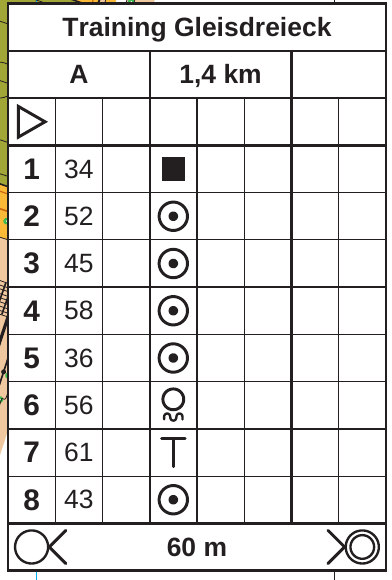
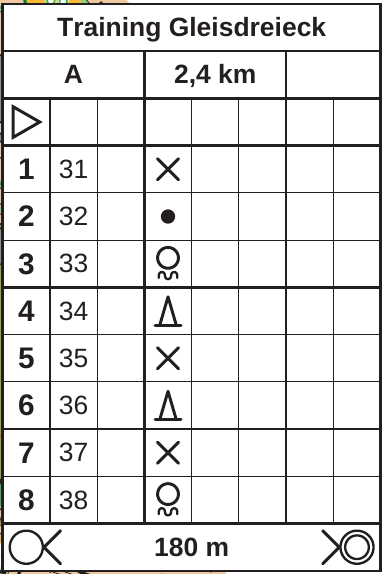
docs(manual): redo the course figures with the freemapper-courseplan courses
The course sheet, description box, course detail, window, corridor and
editor figures now show two courses made with freemapper-courseplan 0.14.1
on the Gleisdreieck map. The window figure uses default windows that keep
their gap. The corridor of course B is made in two pieces, because two of
its legs cross. Captions, alt text and the image README follow.

Claude-Session: https://claude.ai/code/session_01BW25YpQzNgpyx83gc57xBg

Changed region(s): [[0.0, 0.0, 1.0, 1.0], [0.7188, 0.7997, 0.75, 0.8589]]

diff --git a/docs/manual/de.md b/docs/manual/de.md
@@ -755,9 +755,9 @@ eine schlechte Datei nie ein Blatt erzeugt. Der Exit-Code ist 1.
 
 ### Bahnblätter und Bahnaufdruck
 
-![A4-Blatt mit der Karte, der violetten Bahn A mit acht Posten und Nummern, dem Titelblock oben links und dem Beschreibungskasten oben rechts](img/course-sheet.jpg)
+![A4-Blatt hochkant mit der Karte, der violetten Bahn A mit acht Posten und Nummern, dem Titelblock oben links und dem Beschreibungskasten oben rechts](img/course-sheet.jpg)
 
-*Das Blatt der Bahn „A“ in 1:4000 mit Bahnaufdruck, Nummern, Titelblock und Beschreibungskasten (die Bahn ist für dieses Handbuch erfunden). Karte: Remo Madella, MOO Challenge Berlin 2025.*
+*Das Blatt der Bahn „A“ (2,4 km, acht Posten) in 1:4000 mit Bahnaufdruck, Nummern, Titelblock und Beschreibungskasten. Die Bahn ist mit freemapper-courseplan 0.14.1 gemacht. Karte: Remo Madella, MOO Challenge Berlin 2025.*
 
 Mit einer Bahndatei schreibt `export` ein PDF je Bahn statt je Layout (siehe „Export“ unten). Ein Bahnblatt ist
 das Layout, dem die Bahn zugeordnet ist, mit diesen Änderungen:
@@ -814,9 +814,9 @@ Pflichtstrecken und Kartenwechsel mit ihrer Länge und das Ziel. Der zweite Tite
 bekommt eine eigene Zeile, ein Kartenwechsel („map flip“) die Zeile 15.6. Eine Bahn mit Wertung (Score-Lauf) führt ihre Posten
 nach Code auf, wie Purple Pen es tut.
 
-![Tabelle mit Titel, Bahn A mit 1,4 km, Start, acht Zeilen mit Nummer, Code und Symbol und der Zielzeile](img/description-box.png)
+![Tabelle mit Titel, Bahn A mit 2,4 km, Start, acht Zeilen mit Nummer, Code und Symbol und der Zielzeile](img/description-box.png)
 
-*Der Beschreibungskasten der Bahn „A“ mit Titel, Länge, Start, acht Posten und Ziel. Karte: Remo Madella, MOO Challenge Berlin 2025.*
+*Der Beschreibungskasten der Bahn „A“ mit Titel, Länge (2,4 km), Start, acht Posten und Ziel. Karte: Remo Madella, MOO Challenge Berlin 2025.*
 
 Der Kasten hat weißen Hintergrund und ist in Arimo gesetzt. Ein Kästchen ist standardmäßig 6 mm groß, `cell_mm`
 setzt 4 bis 10 mm. Der Kasten behält seine Größe bei jedem Druckmaßstab, wie es ein Element auf dem Papier tun
@@ -881,9 +881,9 @@ Platziert das Programm eine Nummer selbst, folgt es vier Regeln, die aus den Reg
    Nummer auf der äußeren Winkelhalbierenden, zwischen den beiden Strecken auf ihrer Außenseite.
 4. Ist der bevorzugte Platz belegt, gewinnt der freie Platz, der am wenigsten davon abweicht.
 
-![Ausschnitt des Blatts mit den Posten 3, 4 und 5, ihren Kreisen, den violetten Strecken dazwischen und den Nummern daneben](img/course-detail.jpg)
+![Ausschnitt des Blatts mit den Posten 4, 5 und 6, ihren Kreisen, den violetten Strecken dazwischen und den Nummern daneben](img/course-detail.jpg)
 
-*Die Posten 3 bis 5 der Bahn „A“ mit Kreis, Strecke und Nummer. Karte: Remo Madella, MOO Challenge Berlin 2025.*
+*Die Posten 4 bis 6 der Bahn „A“ mit Kreis, Strecke und Nummer. Karte: Remo Madella, MOO Challenge Berlin 2025.*
 
 Das Programm verschiebt eine Nummer nie von selbst. Es druckt sie dort, wo ihre Ebene sie hinsetzt, und `check`
 bewertet jede Nummer gegen den Bahnaufdruck, die Blattelemente, den Rand des Kartenausschnitts und die Symbole der
@@ -1358,9 +1358,9 @@ Mit check sehen Sie das Ergebnis.
 Posten 50 und das Ziel liegen 25,4 mm auseinander. Die Abdeckung im Beispielprojekt entstand, bevor die Fenster
 einen Abstand hielten, und dort überlappen die beiden Fenster noch.
 
-![A4-Blatt, auf dem die Karte nur in runden Fenstern um Start, Posten und Ziel zu sehen ist, dazwischen weißes Papier mit den violetten Strecken](img/mask-window.jpg)
+![A4-Blatt hochkant, auf dem die Karte nur in zehn getrennten runden Fenstern um Start, Posten und Ziel zu sehen ist, dazwischen weißes Papier mit den violetten Strecken](img/mask-window.jpg)
 
-*Die Bahn „A“ mit Abdeckung für Fenster-OL (`masks window --radius 14 --assign`): Die Karte ist nur in den Fenstern um Start, Posten und Ziel zu sehen. Karte: Remo Madella, MOO Challenge Berlin 2025.*
+*Die Bahn „A“ mit Abdeckung für Fenster-OL (`masks window --course A --assign`, sonst nur Voreinstellungen): zehn Fenster mit 15 mm Radius auf dem Papier um Start, Posten und Ziel. Keins berührt ein anderes. Zwischen ihnen bleibt weißes Papier. Karte: Remo Madella, MOO Challenge Berlin 2025.*
 
 ### Ein Korridor entlang einer Linie: `masks corridor`
 
@@ -1398,9 +1398,9 @@ ihn dafür ohne `--assign` mit `--id` für jedes Stück auf und kopieren Sie dan
 einen Stücks in das Polygon des anderen. Löcher dürfen sich überlappen. Die Tabelle, die Sie dann nicht mehr
 brauchen, löschen Sie.
 
-![Blatt mit einem schmalen, geknickten Streifen Karte, der durch alle fünf Posten führt, sonst weißes Papier; unten rechts der Beschreibungskasten](img/mask-corridor.jpg)
+![Querformatiges Blatt mit einem schmalen Streifen Karte, der entlang der Strecken durch alle fünf Posten führt und sich selbst kreuzt, sonst weißes Papier; oben rechts der Beschreibungskasten](img/mask-corridor.jpg)
 
-*Die Bahn „B“ mit Korridor-Abdeckung (`masks corridor --width 12`) auf einem Blatt von 210 mm × 150 mm (`page_mm`). Karte: Remo Madella, MOO Challenge Berlin 2025.*
+*Die Bahn „B“ mit Korridor-Abdeckung (`masks corridor --width 12`) auf einem Blatt von 190 mm × 160 mm (`page_mm`). Die Strecken 1–2 und 4–5 der Bahn kreuzen sich, deshalb ist der Korridor in zwei Stücken gemacht und zusammengeführt, wie oben beschrieben. Karte: Remo Madella, MOO Challenge Berlin 2025.*
 
 ### Was beide Befehle in die Datei schreiben
 
@@ -1616,9 +1616,9 @@ Posten. Dazu kommen Radius, eigene Radien (`35=20`), der Abstand zwischen den Fe
 „Kein Fenster am Ziel“, eine Kennung und „Bahn mit dieser Maske drucken“. „Fenstermaske anlegen“ schreibt sie, wie
 `masks window`. Radien und Abstand sind in Millimetern auf dem Papier. Eine Fenstermaske braucht eine Bahndatei.
 
-![Editor nach dem Anlegen einer Fenstermaske: Die Vorschau zeigt die Karte nur in runden Fenstern, im Baum steht die Abdeckung fenster-a, rechts ihre Eigenschaften](img/editor-window-mask.png)
+![Editor nach dem Anlegen einer Fenstermaske: Die Vorschau zeigt die Karte nur in runden Fenstern, im Baum steht die Abdeckung window-A, rechts ihre Eigenschaften](img/editor-window-mask.png)
 
-*Der Editor nach „Fenstermaske anlegen“: Die Vorschau zeigt die Fenster, die Abdeckung „fenster-a“ steht im Baum. Karte: Remo Madella, MOO Challenge Berlin 2025.*
+*Der Editor nach „Fenstermaske anlegen“: Die Vorschau zeigt die Fenster, die Abdeckung „window-A“ steht im Baum. Karte: Remo Madella, MOO Challenge Berlin 2025.*
 
 **Korridormaske.** Menü „Masken“, „Korridormaske“. Klicken Sie die Punkte der Linie im Blatt an und den letzten
 doppelt; das Formular nennt die Zahl der gezeichneten Punkte. Statt zu zeichnen, tippen Sie die Strecke ins Feld

diff --git a/docs/manual/en.md b/docs/manual/en.md
@@ -729,9 +729,9 @@ bad file never produces a sheet. The exit code is 1.
 
 ### Course sheets and the overprint
 
-![An A4 sheet with the map, the purple course A with eight controls and numbers, the title block at the top left and the description box at the top right](img/course-sheet.jpg)
+![An A4 portrait sheet with the map, the purple course A with eight controls and numbers, the title block at the top left and the description box at the top right](img/course-sheet.jpg)
 
-*The sheet of course "A" at 1:4000 with overprint, numbers, title block and description box (the course is made up for this manual). Map: Remo Madella, MOO Challenge Berlin 2025.*
+*The sheet of course "A" (2.4 km, eight controls) at 1:4000 with overprint, numbers, title block and description box. The course was made with freemapper-courseplan 0.14.1. Map: Remo Madella, MOO Challenge Berlin 2025.*
 
 With a course file, `export` writes one PDF per course instead of one per layout (see "Export" below). A course
 sheet is the layout the course is assigned to, with these changes:
@@ -784,9 +784,9 @@ climb, the start, one row per control with number, code and the symbols for the 
 routes and map exchanges with their length, and the finish. The secondary title of a course from Purple Pen gets
 its own row, and a map flip the row 15.6. A score course lists its controls by code, the way Purple Pen does.
 
-![A table with the title, course A with 1.4 km, the start, eight rows with number, code and symbol, and the finish row](img/description-box.png)
+![A table with the title, course A with 2.4 km, the start, eight rows with number, code and symbol, and the finish row](img/description-box.png)
 
-*The description box of course "A" with title, length, start, eight controls and finish. Map: Remo Madella, MOO Challenge Berlin 2025.*
+*The description box of course "A" with title, length (2.4 km), start, eight controls and finish. Map: Remo Madella, MOO Challenge Berlin 2025.*
 
 The box has a white background and is drawn in Arimo. A cell is 6 mm by default. `cell_mm` sets it from 4 to 10 mm.
 The box keeps its size at every print scale, as an element on paper should. If a 1:3000 sheet needs more room for
@@ -845,9 +845,9 @@ When the program places a number itself, it follows four rules. The user rules o
    outer bisector, between the two legs on their outer side.
 4. If the preferred place is blocked, the free place that deviates least from it wins.
 
-![A detail of the sheet with controls 3, 4 and 5, their circles, the purple legs between them and the numbers beside them](img/course-detail.jpg)
+![A detail of the sheet with controls 4, 5 and 6, their circles, the purple legs between them and the numbers beside them](img/course-detail.jpg)
 
-*Controls 3 to 5 of course "A" with circle, leg and number. Map: Remo Madella, MOO Challenge Berlin 2025.*
+*Controls 4 to 6 of course "A" with circle, leg and number. Map: Remo Madella, MOO Challenge Berlin 2025.*
 
 The program never moves a number on its own. It prints where the level puts it, and `check` scores every number
 against the overprint, the sheet elements, the edge of the map frame and the map's own symbols. If a number lies
@@ -1311,9 +1311,9 @@ radius on paper at 1:4000 around the start, controls 43, 34, 41, 42, 38, 35, 50 
 15 mm, to keep the gap." Control 50 and the finish are 25.4 mm apart. The mask in the example project was written
 before windows kept a gap, and there the two windows still overlap.
 
-![An A4 sheet where the map shows only in round windows around start, controls and finish, with white paper and the purple legs between them](img/mask-window.jpg)
+![An A4 portrait sheet where the map shows only in ten separate round windows around start, controls and finish, with white paper and the purple legs between them](img/mask-window.jpg)
 
-*Course "A" with a mask for window orienteering (`masks window --radius 14 --assign`): the map shows only in the windows around start, controls and finish. Map: Remo Madella, MOO Challenge Berlin 2025.*
+*Course "A" with a mask for window orienteering (`masks window --course A --assign`, defaults otherwise): ten windows of 15 mm radius on paper around start, controls and finish. None touches another, and white paper lies between them. Map: Remo Madella, MOO Challenge Berlin 2025.*
 
 ### A corridor along a line: `masks corridor`
 
@@ -1349,9 +1349,9 @@ command does not write a branch or a second corridor for the same course. For th
 an `--id` for each piece, then copy the second ring (the hole) of one piece into the polygon of the other. Holes
 may overlap. Delete the table you no longer need.
 
-![A sheet with a narrow, bent strip of map that runs through all five controls, white paper elsewhere and the description box at the bottom right](img/mask-corridor.jpg)
+![A landscape sheet with a narrow strip of map that runs along the legs through all five controls and crosses itself, white paper elsewhere and the description box at the top right](img/mask-corridor.jpg)
 
-*Course "B" with a corridor mask (`masks corridor --width 12`) on a sheet of 210 mm × 150 mm (`page_mm`). Map: Remo Madella, MOO Challenge Berlin 2025.*
+*Course "B" with a corridor mask (`masks corridor --width 12`) on a sheet of 190 mm × 160 mm (`page_mm`). Legs 1 to 2 and 4 to 5 of the course cross, so the corridor was made in two pieces and merged, as described above. Map: Remo Madella, MOO Challenge Berlin 2025.*
 
 ### What both commands write
 
@@ -1553,9 +1553,9 @@ own radii (`35=20`), the gap between windows, "No window at the start", "No wind
 millimetres on paper. A window mask
 needs a course file.
 
-![The editor after adding a window mask: the preview shows the map only in round windows, the mask fenster-a is in the tree and its properties are on the right](img/editor-window-mask.png)
+![The editor after adding a window mask: the preview shows the map only in round windows, the mask window-A is in the tree and its properties are on the right](img/editor-window-mask.png)
 
-*The editor after "Add the window mask" ("Fenstermaske anlegen" in the German interface): the preview shows the windows, and the mask "fenster-a" is in the tree. Map: Remo Madella, MOO Challenge Berlin 2025.*
+*The editor after "Add the window mask" ("Fenstermaske anlegen" in the German interface): the preview shows the windows, and the mask "window-A" is in the tree. Map: Remo Madella, MOO Challenge Berlin 2025.*
 
 **Corridor mask.** Masks menu, Corridor mask. Click the points of the line on the sheet and double-click the
 last one; the form says how many points are drawn. Instead you can type the route into "Points typed as x,y;x,y in

diff --git a/docs/manual/img/README.md b/docs/manual/img/README.md
@@ -1,40 +1,51 @@
 # Images of the user manual
 
-The figures in `docs/manual/de.md` and `docs/manual/en.md` show sheets that freemapper-print 0.8.0 made from two
-maps and the browser editor working on one of them.
+The figures in `docs/manual/de.md` and `docs/manual/en.md` show sheets that freemapper-print 0.8.0 (plus the
+unreleased window gap, ADR 0063) made from two maps and the browser editor working on one of them.
 
 ## Source and permission
 
 - Maps: "Gleisdreieck" and "Rummelsburg" (Berlin, sprint, 1:4000, OpenOrienteering Mapper files).
 - Author: Remo Madella, MOO Challenge Berlin 2025.
-- Date of release: 2026-11-12. Remo Madella released the two maps for use inside the freemapper suite.
-- No other licence is stated. The images are used with his permission and are not under an open licence. Ask the
-  author before you reuse them elsewhere. The maps themselves are not in this repository; only the finished images
-  are.
+- Permission: Remo Madella confirmed by e-mail on 2026-11-12 that the maps may be used as example maps in the
+  public freemapper project, inside the suite. The figures need no further permission. The maps carry no licence
+  of their own beyond that, so for any other use ask the author. Only the finished images are in this repository,
+  not the `.omap` files.
+- Courses: the courses on the sheets (A with 8 controls and 2.38 km, B with 5 controls and 1.40 km, both on the
+  Gleisdreieck map) were made with freemapper-courseplan 0.14.1. They carry no date and no organiser; the event
+  date 2027-05-08 and the organiser "OL-Verein Musterstadt" come from the print project and are made up.
 
 Every caption in the manual names the map author.
 
 ## How they were made
 
 Nothing here is a photograph or a drawing. Each sheet is a PDF from `freemapper-print export` (or `render` for the
-first figure), converted with `pdftoppm` at 110 to 200 dpi and saved as JPEG (quality 82 to 86) or PNG. The detail
-figures are crops of such pages. The two editor figures are 1400 × 900 pixel screenshots of `freemapper-print edit`
-with the German interface.
+first figure), converted with `pdftoppm` at 110 to 200 dpi and saved as JPEG (quality 80 to 84) or PNG. The detail
+figures are crops of such pages. The two editor figures are 1400 × 900 pixel screenshots of
+`freemapper-print edit --no-browser` with the German interface, driven with `playwright-cli`.
 
 The project files and the course file are not in the repository. The settings that matter:
 
-- Sheets: A4 landscape at 1:4000, `map_frame` with `centre_map_mm` and `crop = true` so that a sheet shows a
-  section of the map. Passe-partout 10 mm, in the passe-partout figure 30 mm. Layout sheet and course sheets:
-  title block top left, scale check bar bottom right, a logo (a small compass mark drawn for this purpose, not a
-  real club logo). The event, club and date are made up.
-- Courses: two courses written by hand as a Purple Pen file with controls on the point features of the map (8
-  controls for course "A", 5 for course "B"), with the description symbols of column D. A control number was moved
-  with `numbers accept`.
-- Window figure: `masks window --course A --radius 14 --assign`.
-- Corridor figure: `masks corridor --width 12 --course B --assign` along ten points, on a sheet of
-  `page_mm = [150, 210]` in landscape, 8 mm passe-partout.
+- Event: title "Training Gleisdreieck", `date = 2027-05-08`, `organiser = "OL-Verein Musterstadt"`,
+  `contour_interval_m = 2.5`, sheet language German. The title block of the course sheets has four lines:
+  `{event}`, `Bahn {course} · {length_km} km · {controls} Posten`, `{date} · {organiser}` and
+  `1:{print_scale} · Äquidistanz {contour_interval}`. A logo (a small compass mark drawn for this purpose as SVG,
+  not a real club logo) sits at the bottom left, the scale check bar at the bottom right and the description box
+  at the top right.
+- Course sheet of course "A": A4 portrait at 1:4000, passe-partout 8 mm, `map_frame` with
+  `centre_map_mm = [47.5, 158.0]` and `crop = true`. The number of control 38 was moved with `numbers accept`
+  (direction 57.9°, gap 3 mm). The description box and the detail figure are crops of this sheet at 200 dpi.
+- Window figure: the same sheet with `centre_map_mm = [36.5, 160.0]` and `masks window --course A --assign`,
+  no other option. Radius 15 mm, gap 3 mm; the course has no pair of points closer than 170 m, so no window got
+  smaller.
+- Corridor figure: course "B" on a sheet of `page_mm = [160, 190]` in landscape, 8 mm passe-partout,
+  `centre_map_mm = [57.0, 17.0]`. The legs 1 to 2 and 4 to 5 cross, so the corridor is made of two pieces, each
+  from `masks corridor` with `--width 12`: start to control 44, and control 44 to the finish, the outer ends a few
+  millimetres beyond start and finish. The second hole is copied into the polygon of the first.
 - Scale figure: the same section at `print_scale` 4000 and 3000, each cropped to 80 mm × 60 mm on paper.
 - Plain map figure: `render rummelsburg.omap --paper a3` without a project.
+- Layout figures (`sheet-passe-partout.jpg`, `sheet-elements.jpg`) show layout sheets without a course. Their
+  event names ("Park am Gleisdreieck", "Stadtsprint Rummelsburg") and the logo are made up.
 
 ## Files
 
@@ -44,10 +55,10 @@ The project files and the course file are not in the repository. The settings th
 | `sheet-passe-partout.jpg` | 6 | passe-partout, frame line and credit line |
 | `sheet-elements.jpg` | 7 | title block, logo, scale check bar, credit line |
 | `scale-comparison.jpg` | 9 | 1:4000 next to 1:3000 |
-| `course-sheet.jpg` | 8 | course sheet with overprint and description box |
-| `description-box.png` | 8 | the description box |
-| `course-detail.jpg` | 8 | circles, legs and control numbers |
-| `mask-window.jpg` | 11 | window mask |
-| `mask-corridor.jpg` | 11 | corridor mask |
+| `course-sheet.jpg` | 8 | course "A" sheet with overprint and description box |
+| `description-box.png` | 8 | the description box of course "A" |
+| `course-detail.jpg` | 8 | circles, legs and control numbers 4 to 6 |
+| `mask-window.jpg` | 11 | window mask, default windows, course "A" |
+| `mask-corridor.jpg` | 11 | corridor mask, course "B" |
 | `editor-element.jpg` | 12 | the editor with an element form |
 | `editor-window-mask.png` | 12 | the editor after adding a window mask |
